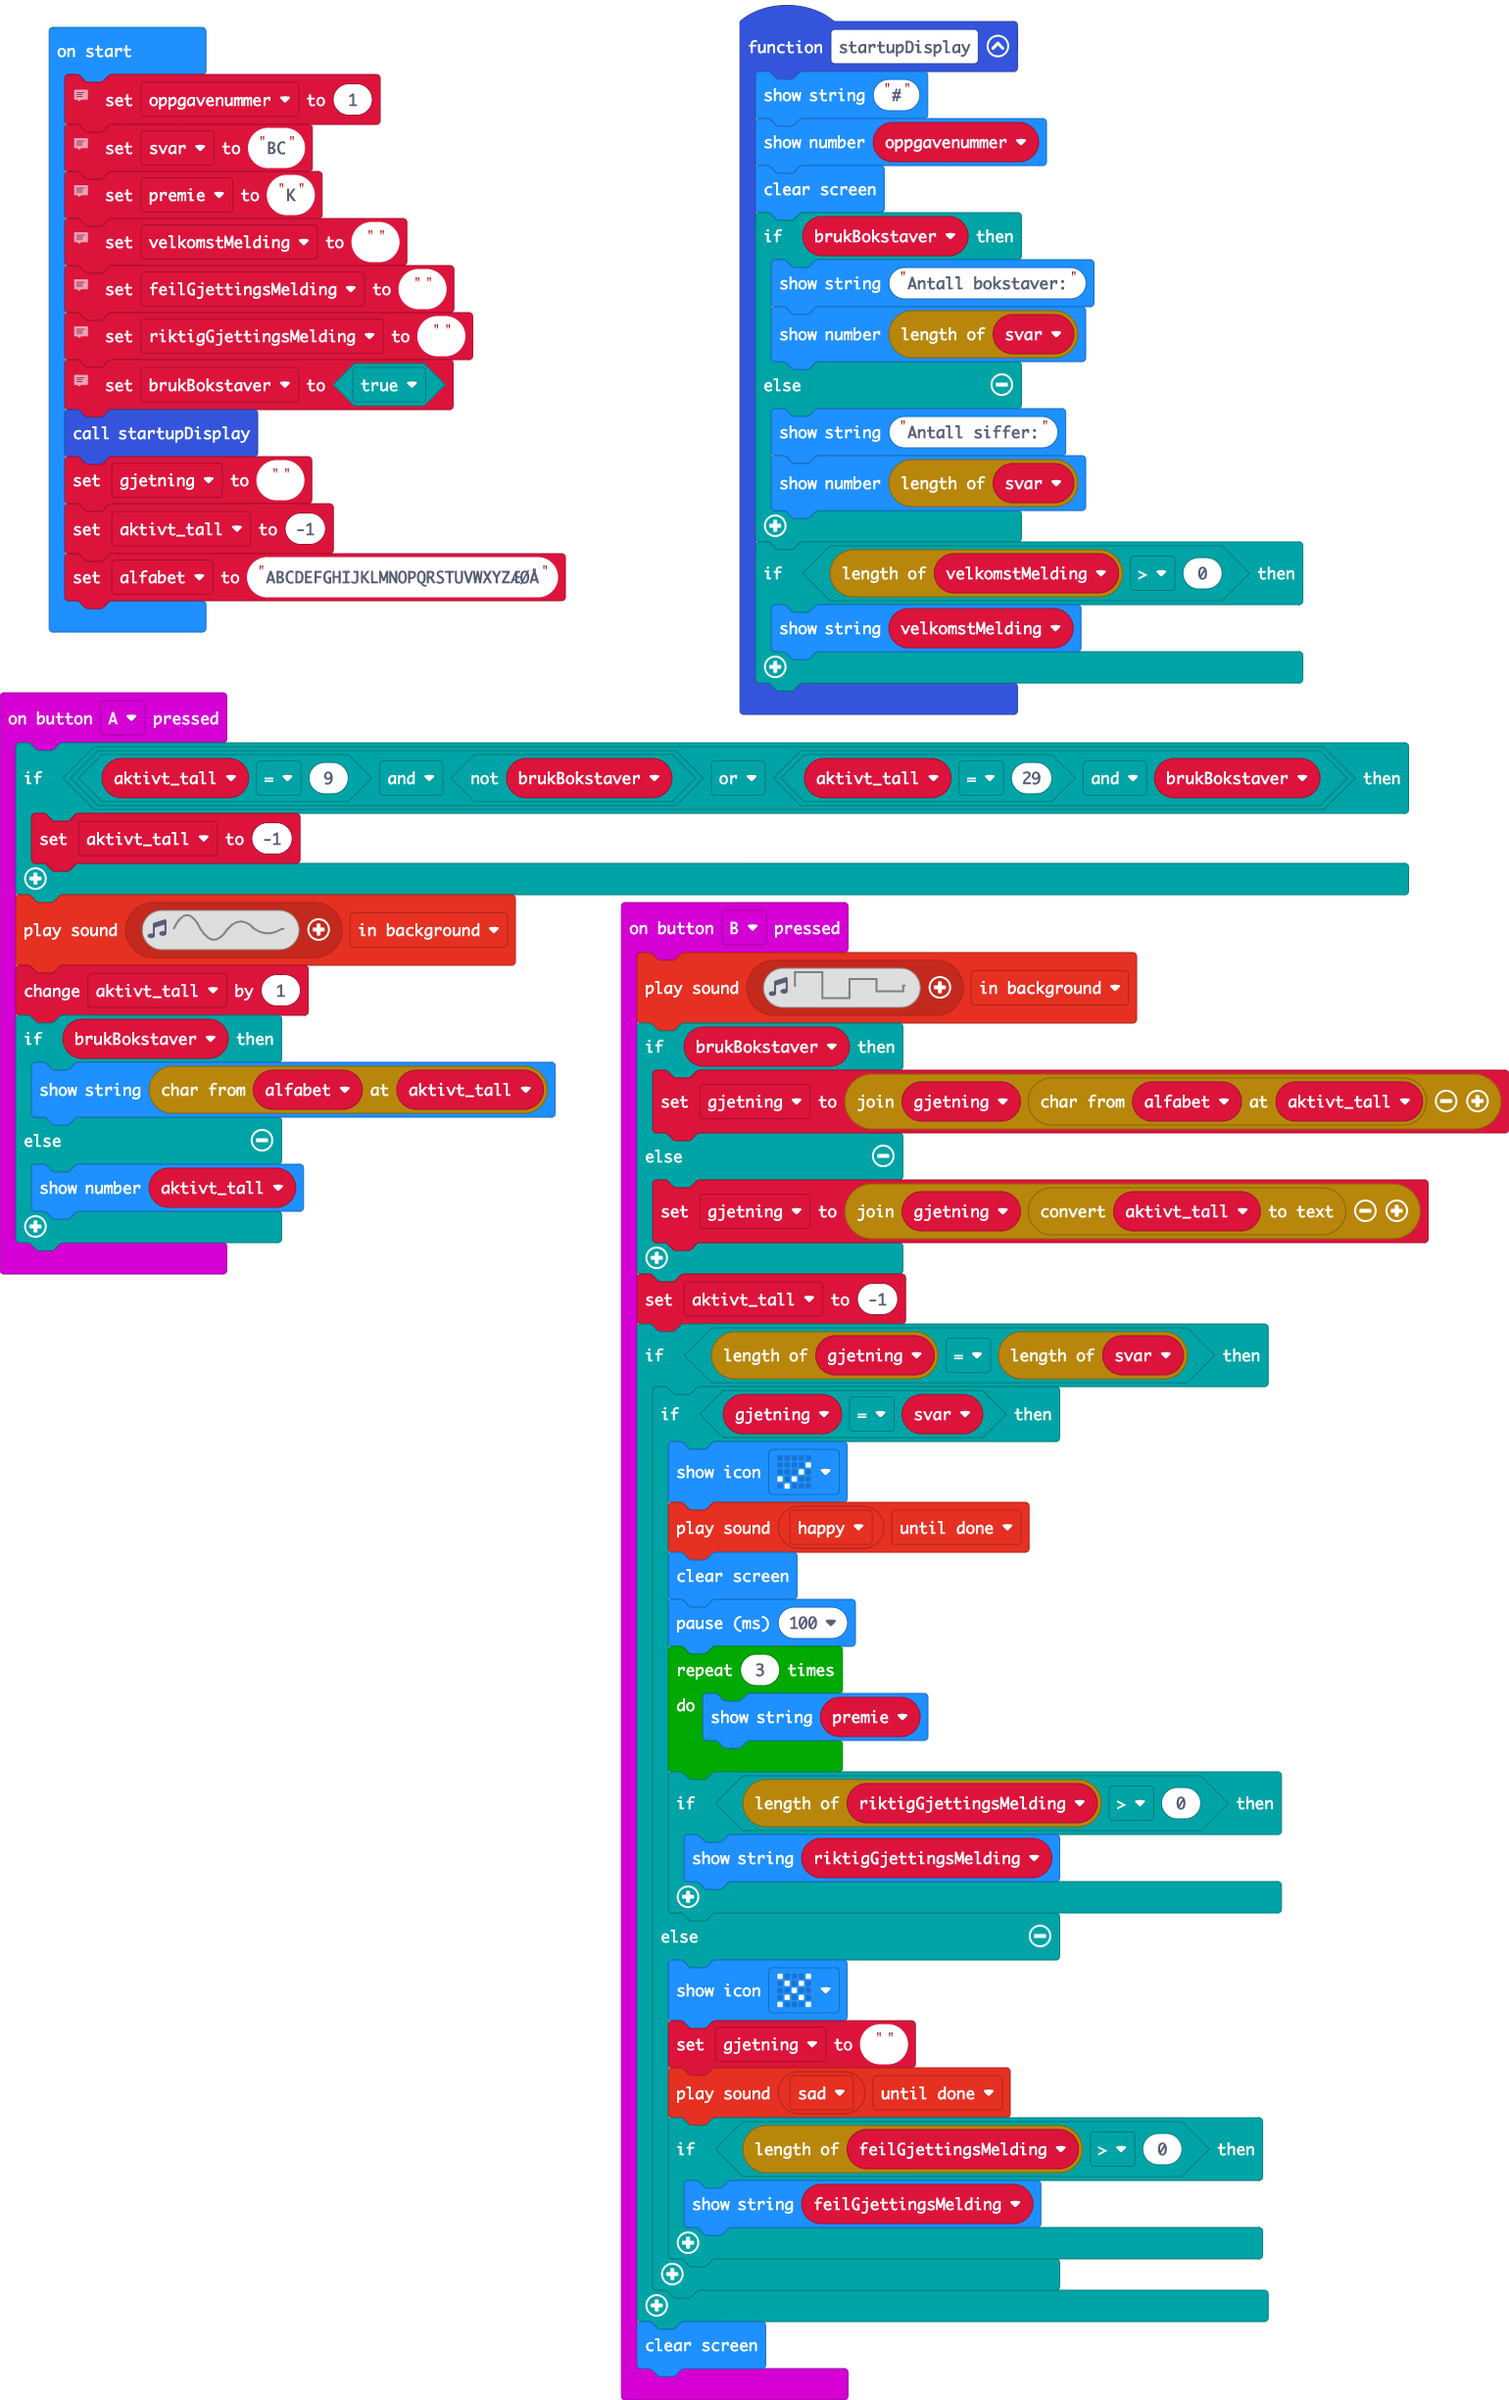
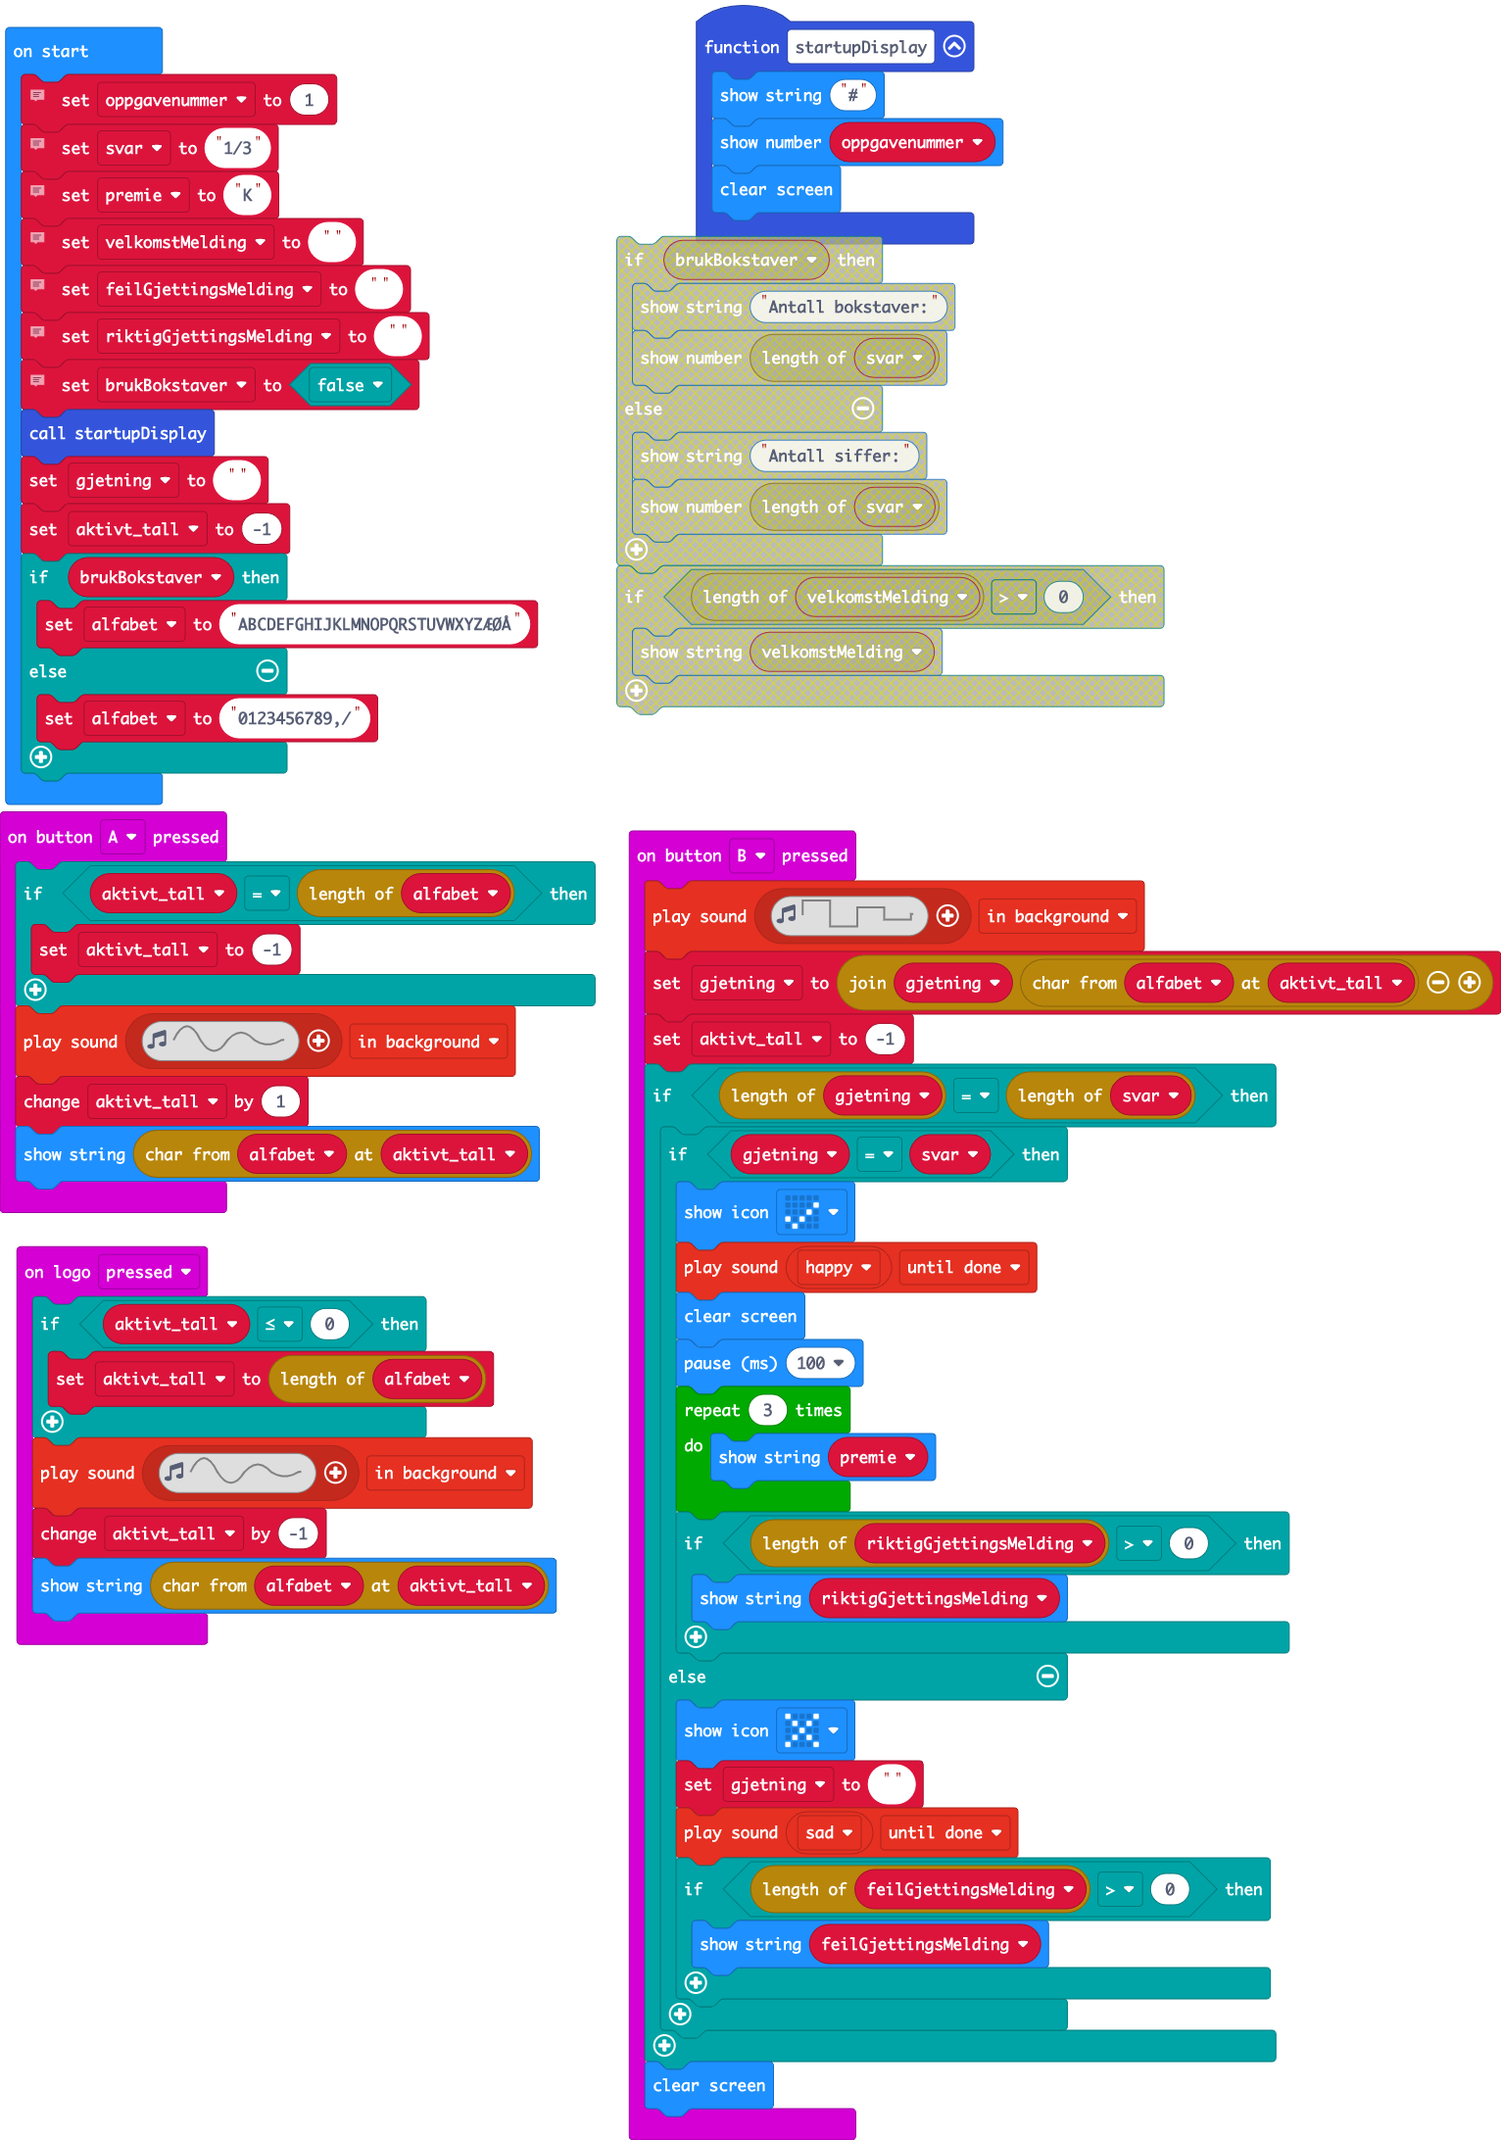
adds possibility of fractions and decimals

diff --git a/main.ts b/main.ts
@@ -1,22 +1,14 @@
 input.onButtonPressed(Button.A, function () {
-    if (aktivt_tall == 9 && !(brukBokstaver) || aktivt_tall == 29 && brukBokstaver) {
+    if (aktivt_tall == alfabet.length) {
         aktivt_tall = -1
     }
     music.playSoundEffect(music.createSoundEffect(WaveShape.Sine, 500, 500, 255, 0, 15, SoundExpressionEffect.Vibrato, InterpolationCurve.Linear), SoundExpressionPlayMode.InBackground)
     aktivt_tall += 1
-    if (brukBokstaver) {
-        basic.showString(alfabet.charAt(aktivt_tall))
-    } else {
-        basic.showNumber(aktivt_tall)
-    }
+    basic.showString(alfabet.charAt(aktivt_tall))
 })
 input.onButtonPressed(Button.B, function () {
     music.playSoundEffect(music.createSoundEffect(WaveShape.Square, 400, 600, 255, 0, 100, SoundExpressionEffect.Warble, InterpolationCurve.Linear), SoundExpressionPlayMode.InBackground)
-    if (brukBokstaver) {
-        gjetning = "" + gjetning + alfabet.charAt(aktivt_tall)
-    } else {
-        gjetning = "" + gjetning + convertToText(aktivt_tall)
-    }
+    gjetning = "" + gjetning + alfabet.charAt(aktivt_tall)
     aktivt_tall = -1
     if (gjetning.length == svar.length) {
         if (gjetning == svar) {
@@ -45,42 +37,42 @@ function startupDisplay () {
     basic.showString("#")
     basic.showNumber(oppgavenummer)
     basic.clearScreen()
-    if (brukBokstaver) {
-        basic.showString("Antall bokstaver:")
-        basic.showNumber(svar.length)
-    } else {
-        basic.showString("Antall siffer:")
-        basic.showNumber(svar.length)
-    }
-    if (velkomstMelding.length > 0) {
-        basic.showString(velkomstMelding)
-    }
 }
+input.onLogoEvent(TouchButtonEvent.Pressed, function () {
+    if (aktivt_tall <= 0) {
+        aktivt_tall = alfabet.length
+    }
+    music.playSoundEffect(music.createSoundEffect(WaveShape.Sine, 500, 500, 255, 0, 15, SoundExpressionEffect.Vibrato, InterpolationCurve.Linear), SoundExpressionPlayMode.InBackground)
+    aktivt_tall += -1
+    basic.showString(alfabet.charAt(aktivt_tall))
+})
 let alfabet = ""
 let aktivt_tall = 0
 let gjetning = ""
-let brukBokstaver = false
 let riktigGjettingsMelding = ""
 let feilGjettingsMelding = ""
-let velkomstMelding = ""
 let premie = ""
 let svar = ""
 let oppgavenummer = 0
 // Denne variabelen er et heltall (integer). Dette er oppgavenummeret eller postnummeret. Det kan hjelpe deg å sortere microbitene og det kan hjelpe elevene til å finne ut rekkefølgen på oppgavene.
 oppgavenummer = 1
 // Denne variabelen er en tekststreng (string). Strengen kan enten inneholde bokstaver eller tall. Hvis du bruker bokstaver må brukBokstaver settes til true. Hvis du bruker tall må brukBokstaver settes til false.
-svar = "BC"
+svar = "1/3"
 // Denne variabelen er en tekststreng (string). Dette er premien eller hintet som elevene får med seg videre til neste oppgave
 premie = "K"
 // Denne meldingen vises til elevene før oppgaven. Kan f.eks. inneholde hint.
-velkomstMelding = ""
+let velkomstMelding = ""
 // Denne teksten vises til elevene dersom de gjetter feil. Kan f.eks. inneholde hint.
 feilGjettingsMelding = ""
 // Denne teksten vises til elevene hvis de gjetter riktig. Kan f.eks. inneholde instruksjoner om hvor de finner neste oppgave.
 riktigGjettingsMelding = ""
 // Denne variabelen er en boolean (enten true eller false). Hvis du setter den til true så må svaret kun inneholde bokstaver. Dersom den settes til false må svaret kun inneholde tall.
-brukBokstaver = true
+let brukBokstaver = false
 startupDisplay()
 gjetning = ""
 aktivt_tall = -1
-alfabet = "ABCDEFGHIJKLMNOPQRSTUVWXYZÆØÅ"
+if (brukBokstaver) {
+    alfabet = "ABCDEFGHIJKLMNOPQRSTUVWXYZÆØÅ"
+} else {
+    alfabet = "0123456789,/"
+}
